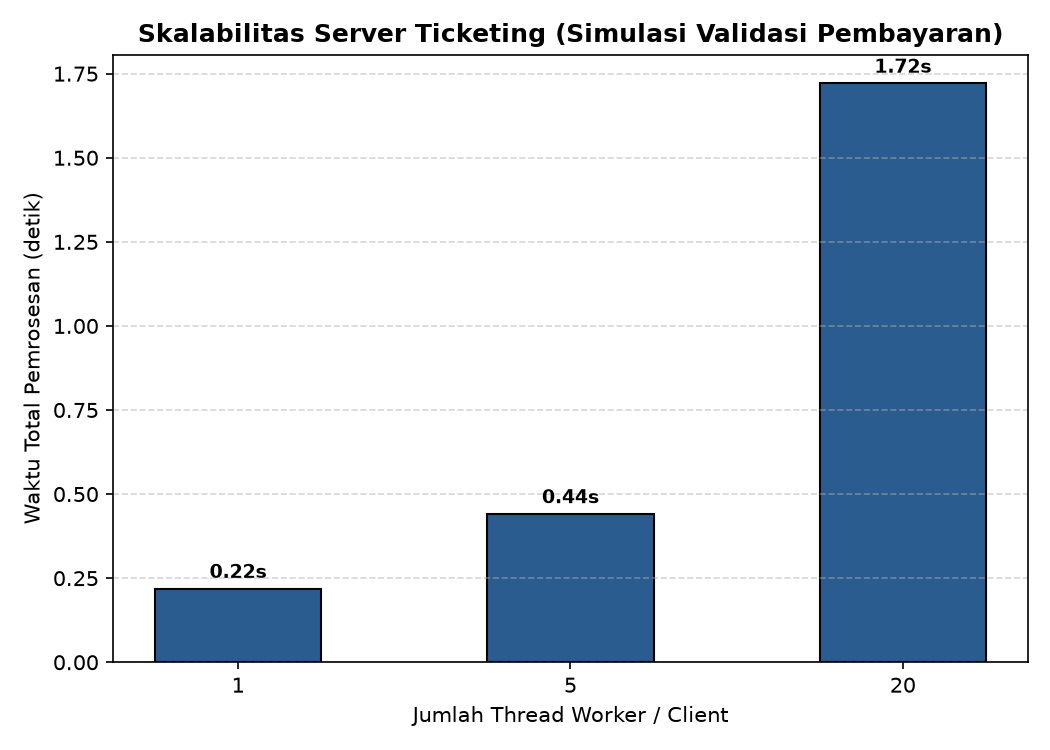
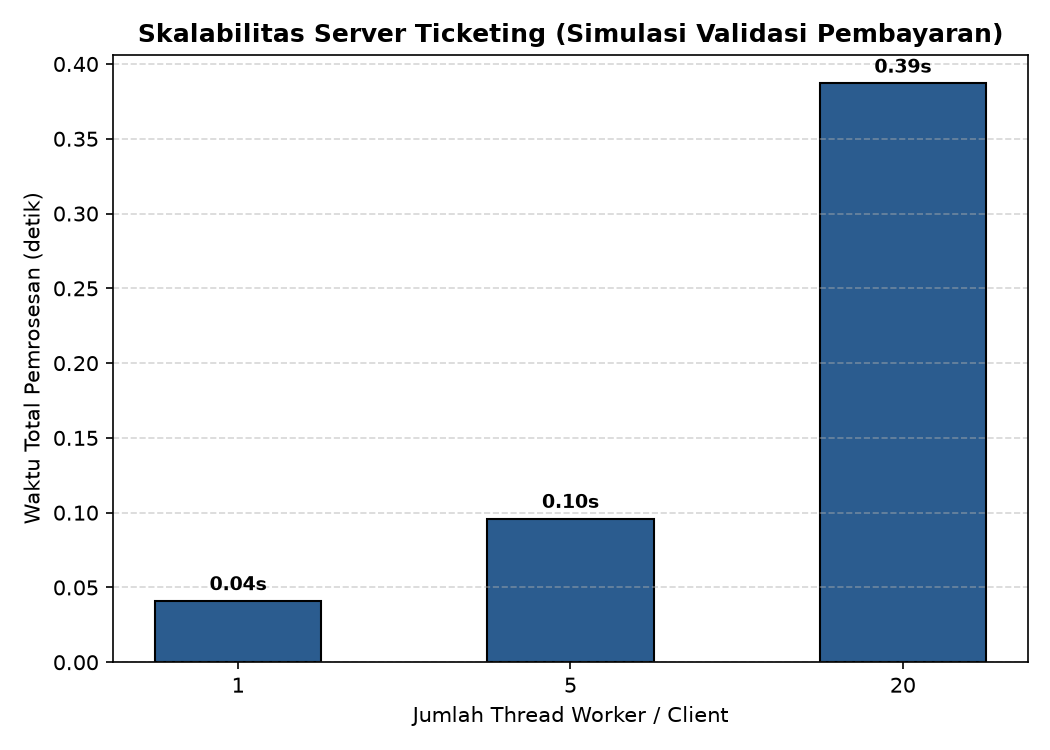
test: bukti hasil pengujian lokal & jaringan + fix demo retry host master_ip.txt + fix delay dedup server

diff --git a/scripts/demo_retry.py b/scripts/demo_retry.py
@@ -17,14 +17,28 @@ from scripts.keluaran import catat_ke
 
 PEMESAN = "demo-retry"
 
+AKAR = os.path.dirname(os.path.dirname(os.path.abspath(__file__)))
+
+
+def baca_host_default():
+    path = os.path.join(AKAR, "master_ip.txt")
+    if os.path.isfile(path):
+        isi = open(path, encoding="utf-8").read().strip()
+        if isi:
+            return f"{isi}:50051"
+    return "localhost:50051"
+
+
 ap = argparse.ArgumentParser()
-ap.add_argument("--host", default="localhost:50051")
+ap.add_argument("--host", default=None,
+                help="default: isi master_ip.txt, atau localhost:50051 bila kosong")
 ap.add_argument("--jumlah", type=int, default=20)
 ap.add_argument("--timeout", type=float, default=1.0)
 ap.add_argument("--jadwal", default="J3")
 ap.add_argument("--tanpa-dedup", action="store_true")
 ap.add_argument("--keluar", default=os.path.join("hasil", "demo_retry.txt"))
 a = ap.parse_args()
+host = a.host or baca_host_default()
 
 retry = {"n": 0}
 
@@ -34,7 +48,7 @@ def catat(nama, p, kode, jeda):
     print(f"   [retry] {nama} percobaan {p} gagal ({kode}); ulang {jeda:.2f}s")
 
 
-k = KlienBioskop(a.host, timeout=a.timeout, maks_percobaan=4, on_retry=catat)
+k = KlienBioskop(host, timeout=a.timeout, maks_percobaan=4, on_retry=catat)
 peta = k.peta(a.jadwal)
 if peta.jadwal.kursi_kosong != peta.jadwal.baris * peta.jadwal.kolom:
     raise SystemExit("Jadwal tidak kosong. Restart server dulu agar demo bersih.")

diff --git a/server.py b/server.py
@@ -56,7 +56,8 @@ class LayananBioskop(pb_grpc.LayananBioskopServicer):
                                  request.pemesan, request.kursi)
         except (JadwalTidakAda, InputTidakValid) as e:
             self._galat(context, e)
-        self._mungkin_lambat()
+        if not h["duplikat"]:  # replay dedup harus instan, agar retry selalu terjawab
+            self._mungkin_lambat()
         return pb.PesanResponse(**h)
 
     def BatalkanPesanan(self, request, context):
